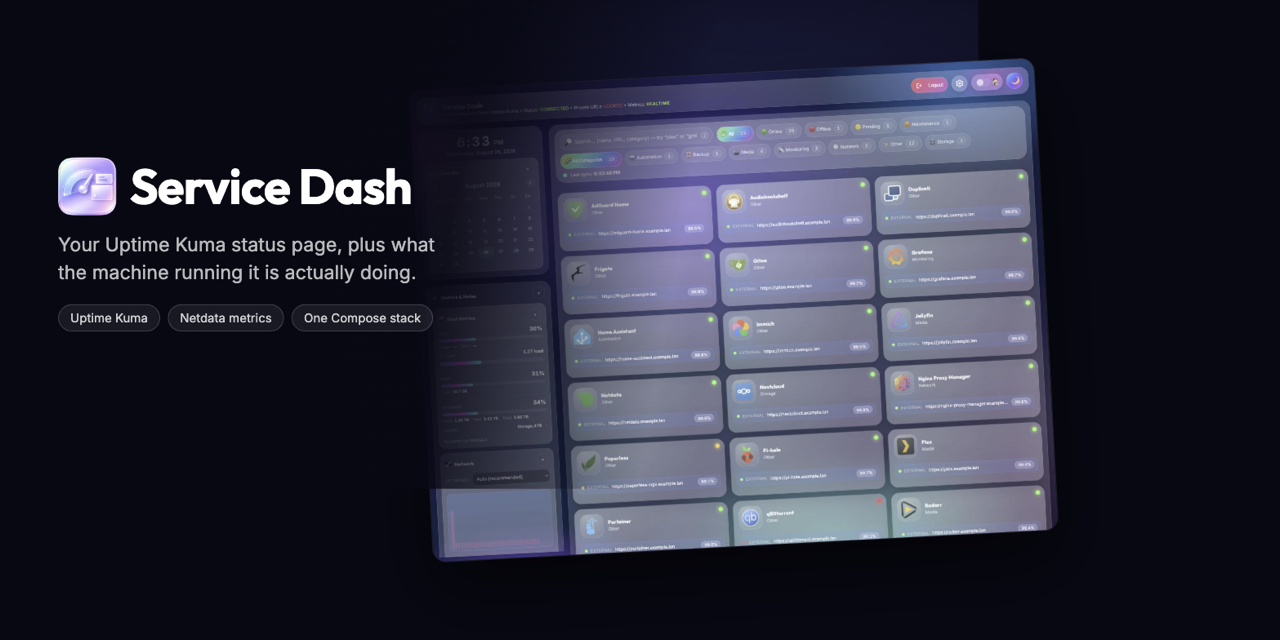
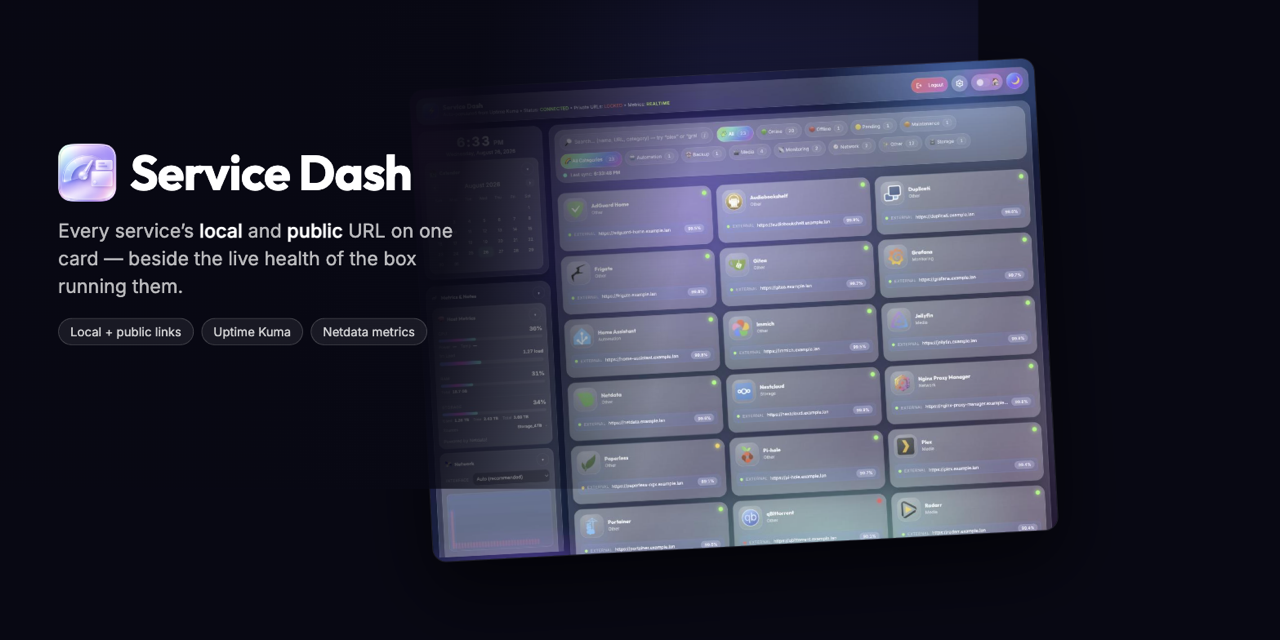
Lead with the thing that is actually distinctive
Every service here has two addresses -- a LAN one that is fast and never
leaves the house, and a public one for when you are out -- and the dashboard
shows both on the same card, with one switch deciding which a click opens.
That was buried in a clause halfway down a feature row, behind things any
dashboard does.

It now leads: the tagline says it, the Why section names the problem it
solves (two bookmarks, or two dashboards, or picking a side), and it is the
first feature row rather than a sub-clause of the fourth. The usage section
explains where the pairing comes from, which was documented nowhere -- two
Uptime Kuma monitors named "Plex" and "Plex local" become one card, and
nothing needs configuring here to make that happen.

The repository description and the social preview card say it too, and the
Local/External switch's own tooltip now explains what it does rather than
naming its two states.

Kept honest in one respect: the dashboard shows and opens these addresses,
it does not manage them. They come from Uptime Kuma monitors, so the wording
is "shows both, switches which one opens" rather than anything implying you
edit URLs here.

Claude-Session: https://claude.ai/code/session_01UW7JYHTRj8waK94ewarr3m

Changed region(s): [[0.0312, 0.2188, 0.375, 0.5312]]

diff --git a/assets/img/social-preview.source.html b/assets/img/social-preview.source.html
@@ -20,6 +20,7 @@
         letter-spacing:-1px; color:#fff; line-height:1; }
   p { font-family:Inter,system-ui,sans-serif; font-size:25px; line-height:1.45;
        color:rgba(255,255,255,.72); max-width:520px; }
+  p b { color:#fff; font-weight:600; }
   .tags { display:flex; gap:10px; flex-wrap:wrap; margin-top:4px; }
   .tag { font-family:Inter,system-ui,sans-serif; font-size:16px; color:rgba(255,255,255,.8);
           border:1px solid rgba(255,255,255,.18); background:rgba(255,255,255,.07);
@@ -33,11 +34,11 @@
       <img src="service-dash-icon.png">
       <h1>Service Dash</h1>
     </div>
-    <p>Your Uptime Kuma status page, plus what the machine running it is actually doing.</p>
+    <p>Every service&rsquo;s <b>local</b> and <b>public</b> URL on one card &mdash; beside the live health of the box running them.</p>
     <div class="tags">
+      <span class="tag">Local + public links</span>
       <span class="tag">Uptime Kuma</span>
       <span class="tag">Netdata metrics</span>
-      <span class="tag">One Compose stack</span>
     </div>
   </div>
 </div></body></html>

diff --git a/index.html b/index.html
@@ -87,7 +87,7 @@
                     >
                         <span class="material-symbols-rounded" aria-hidden="true">settings</span>
                     </button>
-                    <div class="pill linkModePill" title="Local ⇄ External">
+                    <div class="pill linkModePill" title="Open links as Local (LAN) or External (public)">
                         <label class="link-toggle">
                             <input type="checkbox" id="linkModeToggle" />
                             <span class="track"><span class="thumb"></span></span>

diff --git a/README.md b/README.md
@@ -4,7 +4,7 @@
 
 # Service Dash
 
-**A homelab dashboard that turns your Uptime Kuma status page into a live view of your services — and the machine running them.**
+**One dashboard for everything you host — each service's local *and* public URL on a single card, next to the live health of the machine running them.**
 
 [![Validate](https://github.com/cvaghela/service-dash/actions/workflows/validate.yml/badge.svg)](https://github.com/cvaghela/service-dash/actions/workflows/validate.yml)
 [![Release](https://img.shields.io/github/v/release/cvaghela/service-dash?color=6c5cff)](https://github.com/cvaghela/service-dash/releases/latest)
@@ -22,8 +22,14 @@
 
 ## Why
 
-Uptime Kuma tells you whether a service is up. It does not tell you what the box is doing, where the service actually
-lives, or how much of your RAM that one container is eating. Service Dash puts all of that on one page.
+Uptime Kuma tells you whether a service is up. It does not tell you what the box is doing, or how much of your RAM that
+one container is eating. Service Dash puts all of that on one page.
+
+It also solves the two-bookmarks problem. Most self-hosted services end up with two addresses — a LAN one that is fast
+and never leaves the house, and a public one for when you are out — and most dashboards make you pick a side, or keep
+two dashboards. Here both live on the same card, and a single switch in the top bar decides which one a click opens. At
+home, flip it to Local and every card opens over the LAN. On mobile data, flip it to External and the same cards open
+over the internet. Nothing is duplicated and nothing is hidden: you can always see both.
 
 It is one Compose stack — the dashboard, a bundled Netdata Agent, and three small sidecars. No build step, no Node.js
 runtime, no separate Netdata install. nginx serves the page and proxies everything else, so the browser only ever talks
@@ -33,7 +39,8 @@ to one origin.
 
 |  | |
 | --- | --- |
-| **Live service cards** | Status, uptime and both endpoints for every monitor on your Kuma status page. Search, filter by status or category, and click a card to open it. |
+| **Local and public links, one card** | Each service shows both its LAN address and its public URL. One switch in the top bar decides which a click opens, so the same dashboard works at home and away — the active endpoint is tinted so you always know which you will get. |
+| **Live service cards** | Status and uptime for every monitor on your Kuma status page. Search, filter by status or category, and click a card to open it. |
 | **Real host metrics** | CPU with normalised load, RAM, storage, and network throughput from a bundled Netdata Agent — plus package power and temperature where the hardware exposes them. |
 | **Per-container CPU and RAM** | Map a card to one container or several; an app plus its database, cache and worker are added together into one figure. |
 | **Real service icons** | Automatic matching against the full [selfh.st](https://github.com/selfhst/icons) catalogue — 2,880 icons and growing — with a live picker per card. No internet? Every card falls back to a monogram drawn in the browser. |
@@ -218,8 +225,13 @@ are locked the same way.
 
 ## Using the dashboard
 
-**Service cards** show each service's two endpoints, Local and External. The one a click will open is tinted; the
-Local/External switch in the top bar moves that highlight. A service with one endpoint shows one row.
+**Service cards** show each service's two endpoints, Local and External, on the same card. The one a click will open is
+tinted; the Local/External switch in the top bar moves that highlight across every card at once. A service with only one
+endpoint shows one row.
+
+The pairing comes from Uptime Kuma itself: two monitors named `Plex` and `Plex local` — also `Plex (local)`,
+`Plex - local` or `Plex.local` — are recognised as one service with two addresses. Nothing to configure here; name the
+monitors that way in Kuma and the card builds itself.
 
 **Card settings** — hover a card, click the pencil on its icon:
 
